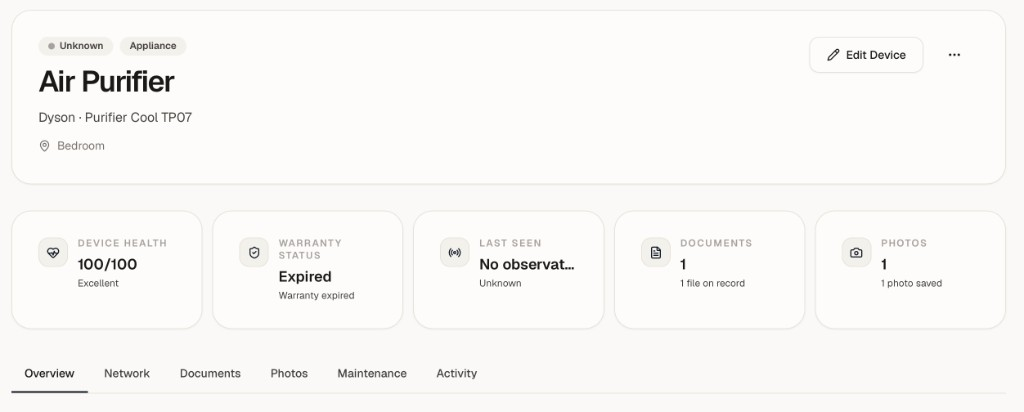
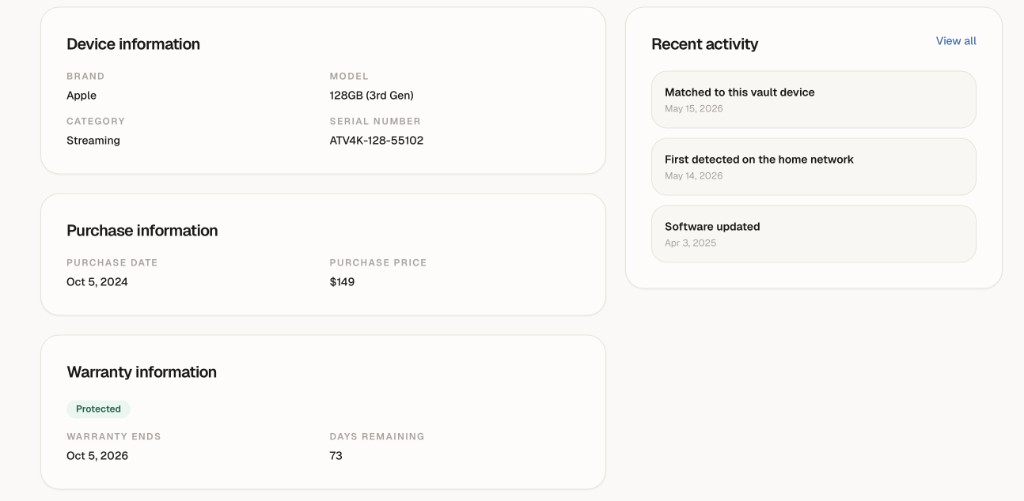
Swap device inventory landing screenshots for sharper product shots.
Replace the Device directory and Device profile images with updated app screenshots.

diff --git a/lib/seo/landingPages.ts b/lib/seo/landingPages.ts
@@ -113,13 +113,13 @@ export const SEO_LANDING_PAGES: Record<
         title: "Device directory",
         caption: "Searchable list of every device with room, category, and status.",
         src: "/seo/screenshots/device-directory.png",
-        alt: "Home Tech Vault device directory showing Air Purifier, Apple TV 4K, and Canon Printer cards",
+        alt: "Home Tech Vault device card for an Air Purifier with room, warranty, and purchase value",
       },
       {
         title: "Device profile",
         caption: "One page for specs, photos, notes, and linked documents.",
         src: "/seo/screenshots/device-profile.png",
-        alt: "Home Tech Vault device profile for an Air Purifier with health, warranty, documents, and photos",
+        alt: "Home Tech Vault device profile showing device, purchase, warranty, and recent activity details",
       },
       {
         title: "Quick add",
